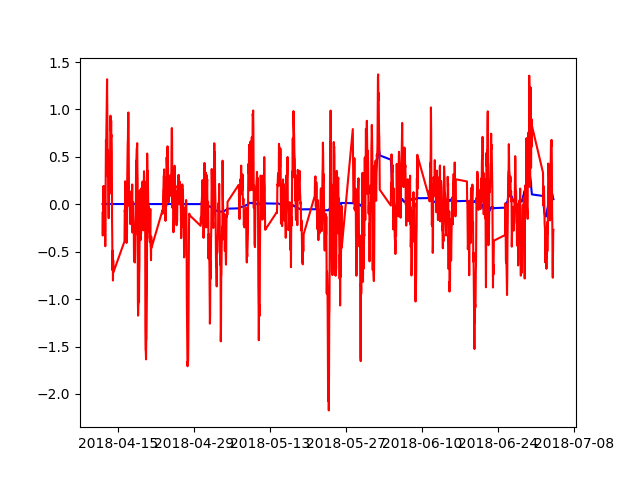
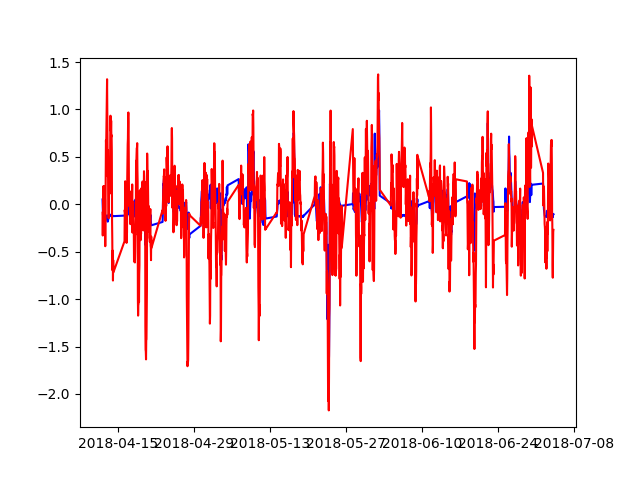
modi

diff --git a/trade_algorithm/lstm_algo.py b/trade_algorithm/lstm_algo.py
@@ -346,7 +346,8 @@ class LstmAlgo(SuperAlgo):
         test_dataframe_dataset = tmp_dataframe.copy().values
 
         # ビルドしたモデルで正規化する
-        test_normalization_dataset = self.change_to_normalization(self.normalization_model, test_dataframe_dataset)
+        model = self.build_to_normalization(test_dataframe_dataset)
+        test_normalization_dataset = self.change_to_normalization(model, test_dataframe_dataset)
 
         # データが1セットなので空配列に追加してndarrayに変換する
         test_input_dataset = []
